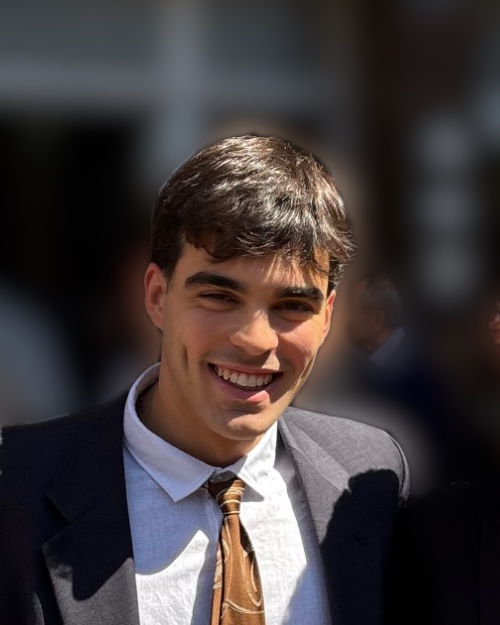
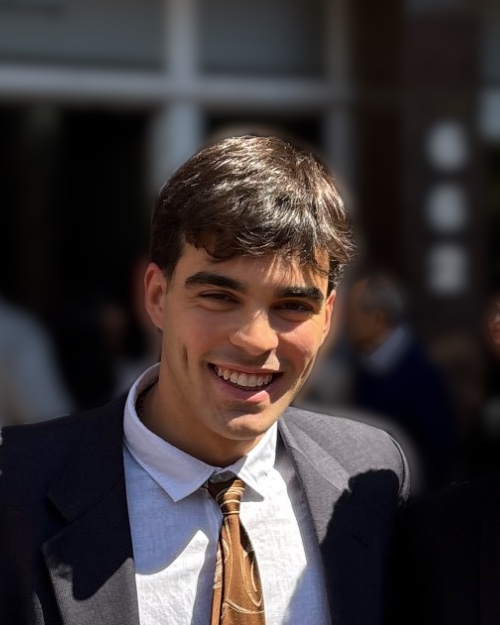
feat: suavizar el desenfoque del fondo en la foto de perfil

diff --git a/index.html b/index.html
@@ -60,7 +60,7 @@
           </div>
         </div>
         <figure class="hero-photo intro" style="--d:.2s">
-          <img src="assets/foto.jpg?v=3" alt="Franco Caraffo">
+          <img src="assets/foto.jpg?v=4" alt="Franco Caraffo">
         </figure>
       </div>
 
